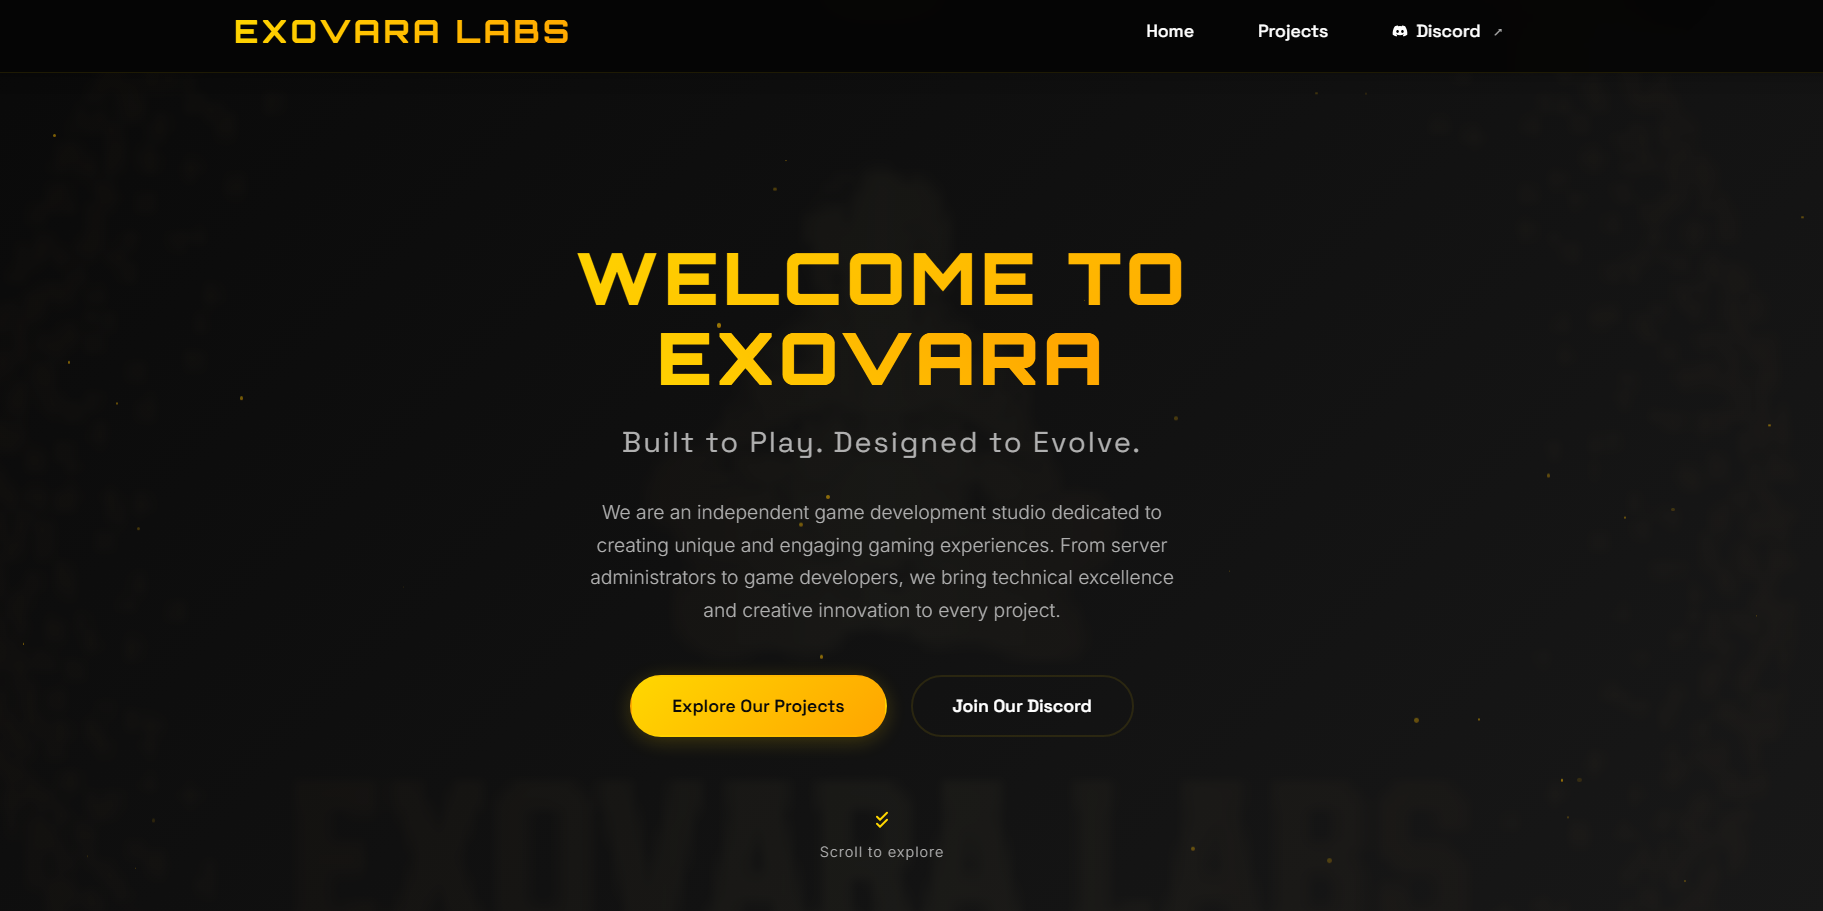
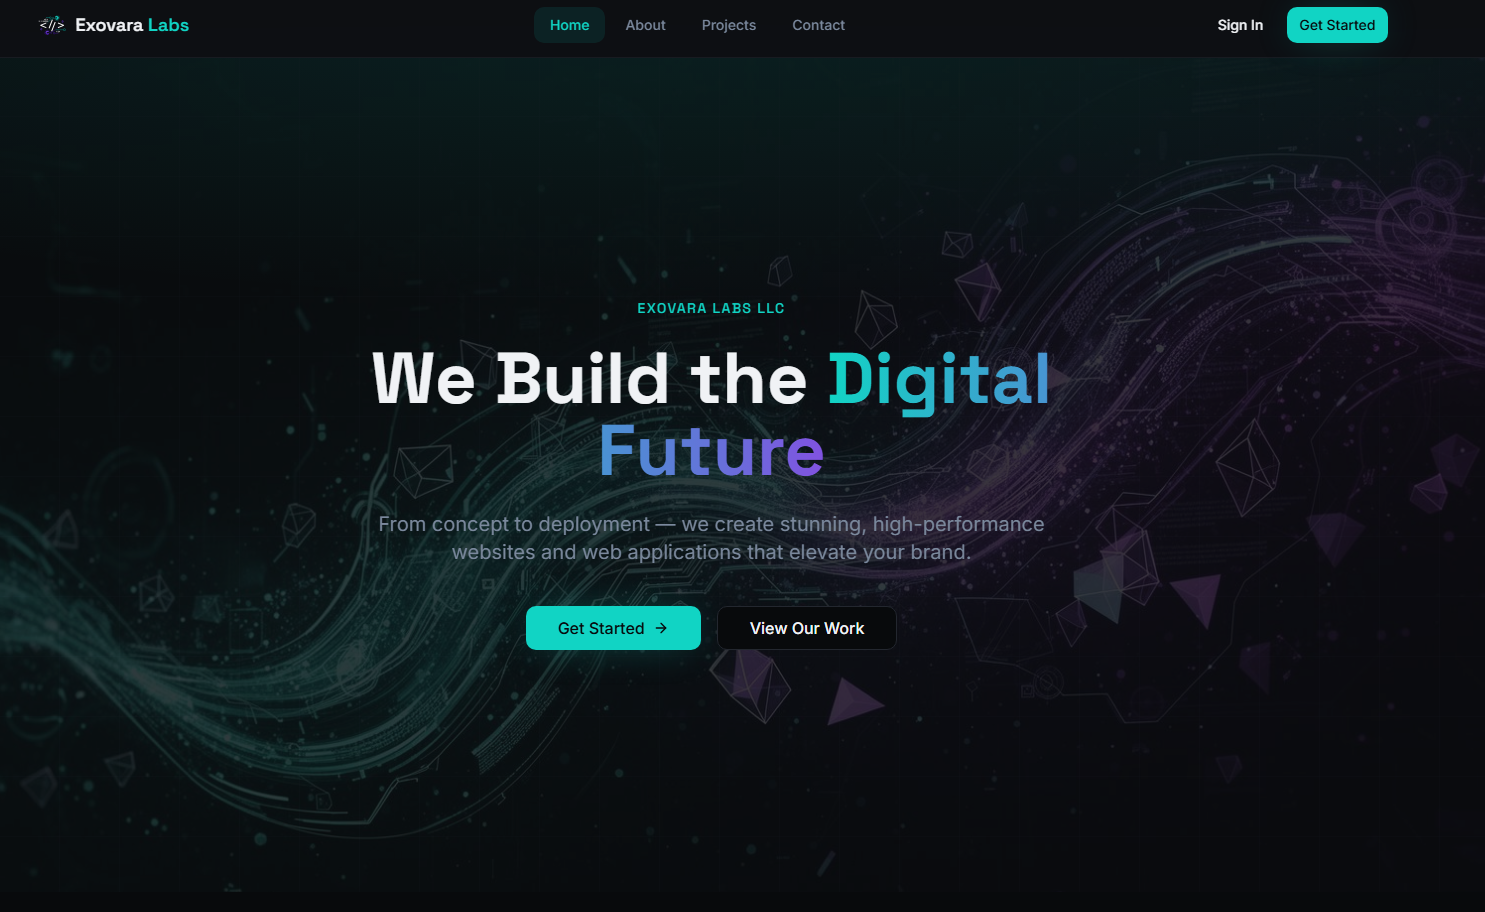
updating exovara labs

diff --git a/app/components/ProjectsSection.js b/app/components/ProjectsSection.js
@@ -14,14 +14,14 @@ const projects = [
   },
   {
     tag: "Studio Brand Site",
-    title: "Exovara Labs – Game Studio",
+    title: "Exovara Labs – Web Development Studio",
     description:
-      "Brand site for my indie game studio, featuring current projects, lore, and ways to work together.",
-    stack: ["Express.js", "React", "Node.js", "Vercel"],
-    link: "https://exovaralabs.com",
+      "Brand site for Exovara Labs, a fullstack development studio and marketplace",
+    stack: ["Vite", "Tailwind", "React", "Supabase", "Shadcn UI", "Typescript", "Stripe"],
+    link: "https://www.exovaralabs.com",
     image: "/exovara-labs-preview.png",
     highlight:
-      "Unified branding for my game projects and development services under one roof.",
+      "Unified branding for my development studio and website marketplace and customizer.",
   },
 ];
 
